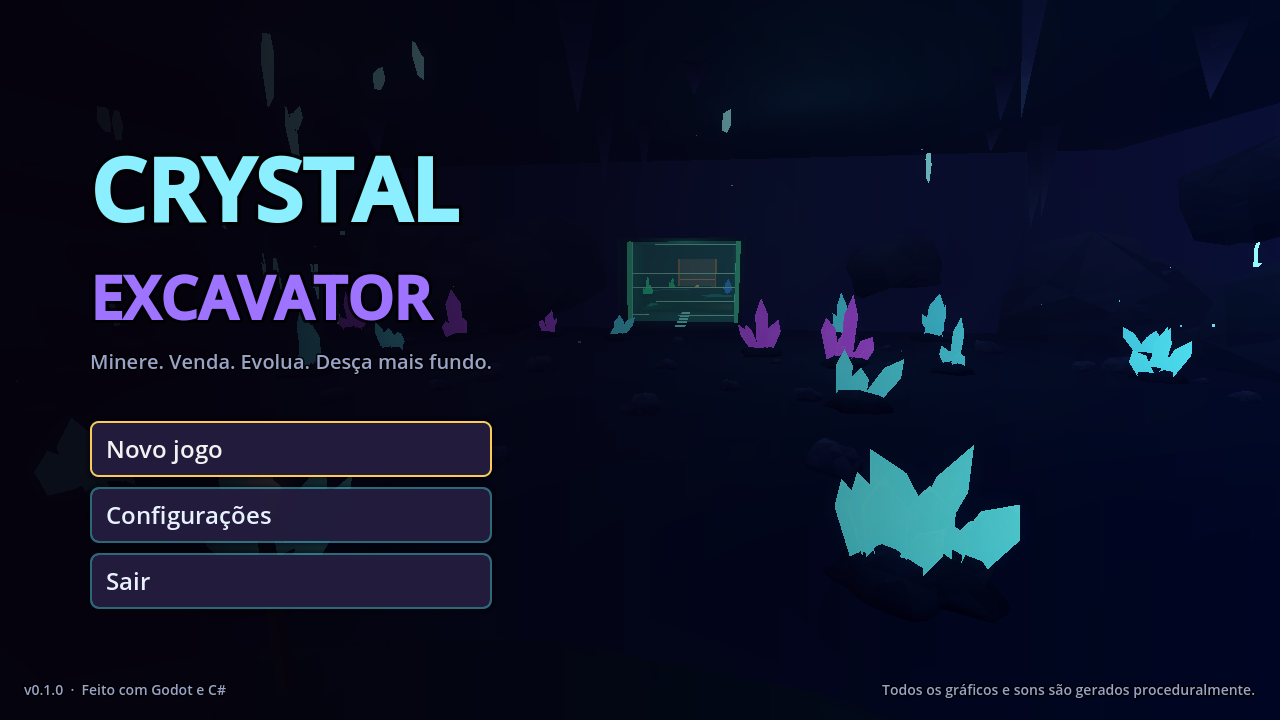
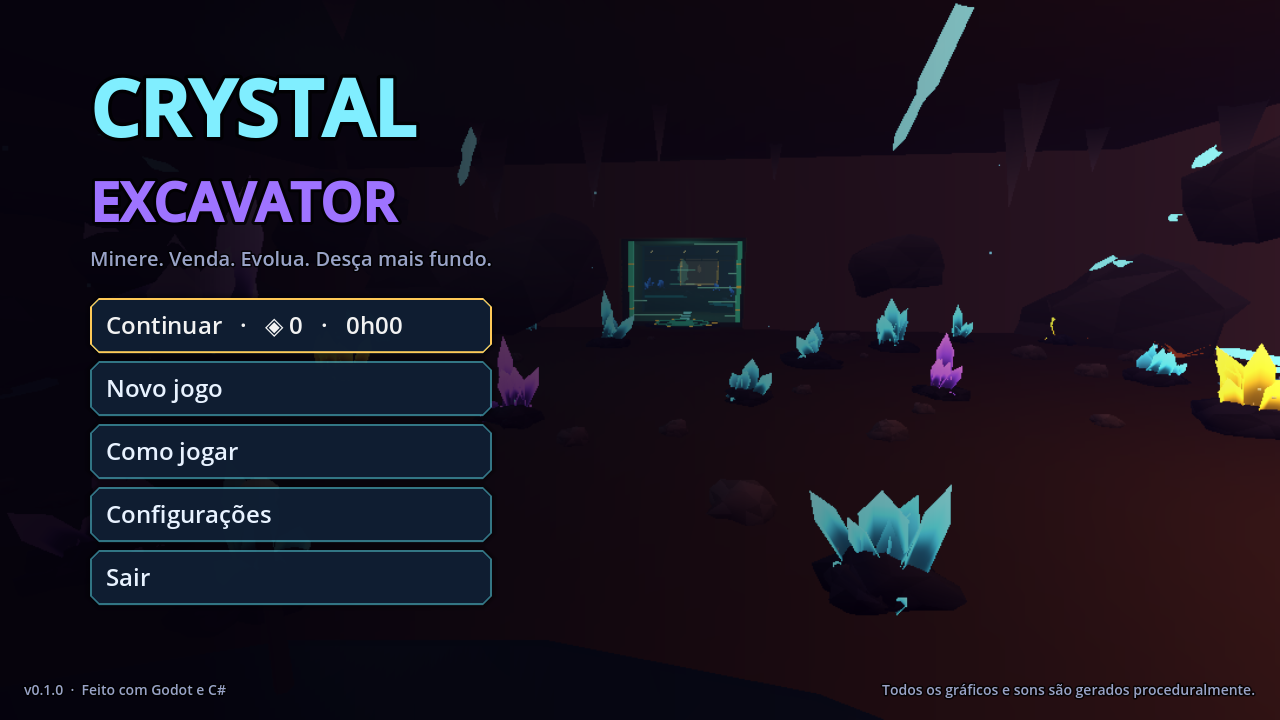
Pré-aquecimento de shaders com tela de carregamento; menu principal cabe a 720p com 5 botões
Claude-Session: https://claude.ai/code/session_01VNDxi8LJdZjd7RsBuVevc4

diff --git a/scripts/Core/Main.cs b/scripts/Core/Main.cs
@@ -116,7 +116,30 @@ public partial class Main : Node
         GameState.Instance.RegionsChanged += () => GameState.Instance.CheckCompletion();
         GameState.Instance.MaterialDiscovered += _ => GameState.Instance.CheckCompletion();
 
+        Boot(args);
+    }
+
+    /// <summary>
+    /// Inicialização: tela "Carregando…" enquanto todas as regiões são desenhadas por alguns quadros
+    /// (pré-compila shaders na GPU e evita travadas ao entrar em regiões novas), depois o menu.
+    /// </summary>
+    bool _booting = true;
+
+    async void Boot(string[] args)
+    {
+        var loading = BuildLoadingOverlay();
+        foreach (var r in World.RegionRoots) r.Visible = true;
+        _menuCam.Current = true;
+        _menuCam.Far = 420f;
+        _menuCam.GlobalPosition = new Vector3(0, 9f, 34f);
+        _menuCam.LookAt(new Vector3(0, 2f, -150f), Vector3.Up);
+        Effects.Instance?.Burst(new Vector3(0, 2, 10), Colors.White, 1f); // compila partículas
+        for (int i = 0; i < 5; i++) await ToSignal(GetTree(), SceneTree.SignalName.ProcessFrame);
+        _menuCam.Far = 120f;
+        loading.QueueFree();
+        _booting = false;
         ShowMenu();
+
 
         if (args.Contains("--autostart")) StartGame(false);
         var shots = args.FirstOrDefault(a => a.StartsWith("--shots="));
@@ -128,6 +151,27 @@ public partial class Main : Node
             if (bot.Contains('=') && float.TryParse(bot.Split('=')[1], System.Globalization.CultureInfo.InvariantCulture, out float mins)) b.MaxGameMinutes = mins;
             AddChild(b);
         }
+    }
+
+    CanvasLayer BuildLoadingOverlay()
+    {
+        var layer = new CanvasLayer { Layer = 50 };
+        AddChild(layer);
+        var bg = new ColorRect { Color = new Color(0.02f, 0.03f, 0.06f, 1f) };
+        bg.SetAnchorsPreset(Control.LayoutPreset.FullRect);
+        layer.AddChild(bg);
+        var center = new CenterContainer();
+        center.SetAnchorsPreset(Control.LayoutPreset.FullRect);
+        layer.AddChild(center);
+        var v = new VBoxContainer();
+        v.AddThemeConstantOverride("separation", 12);
+        center.AddChild(v);
+        var icon = HudIcon.Make(HudIcon.Kind.Gem, UiTheme.Cyan, 64);
+        icon.SizeFlagsHorizontal = Control.SizeFlags.ShrinkCenter;
+        v.AddChild(icon);
+        v.AddChild(UiTheme.Label("CRYSTAL EXCAVATOR", 34, UiTheme.Cyan, true, HorizontalAlignment.Center));
+        v.AddChild(UiTheme.Label("Carregando cavernas…", 18, UiTheme.Muted, false, HorizontalAlignment.Center));
+        return layer;
     }
 
     public override void _ExitTree()
@@ -329,6 +373,7 @@ public partial class Main : Node
     public override void _Process(double delta)
     {
         if (World == null) return;
+        if (_booting) return;
         if (CurrentMode == Mode.Menu)
         {
             _menuT += (float)delta * 0.08f;

diff --git a/scripts/UI/MainMenu.cs b/scripts/UI/MainMenu.cs
@@ -32,19 +32,19 @@ public partial class MainMenu : CanvasLayer
         _root.AddChild(shade);
 
         var left = new VBoxContainer();
-        UiTheme.Place(left, Control.LayoutPreset.CenterLeft, new Vector2(90, -230));
-        left.AddThemeConstantOverride("separation", 10);
+        UiTheme.Place(left, Control.LayoutPreset.CenterLeft, new Vector2(90, -305));
+        left.AddThemeConstantOverride("separation", 6);
         _root.AddChild(left);
 
-        _title = UiTheme.Shadowed(UiTheme.Label("CRYSTAL", 86, UiTheme.Cyan, true), 14);
+        _title = UiTheme.Shadowed(UiTheme.Label("CRYSTAL", 76, UiTheme.Cyan, true), 14);
         left.AddChild(_title);
-        var t2 = UiTheme.Shadowed(UiTheme.Label("EXCAVATOR", 58, UiTheme.Violet, true), 12);
+        var t2 = UiTheme.Shadowed(UiTheme.Label("EXCAVATOR", 52, UiTheme.Violet, true), 12);
         left.AddChild(t2);
         left.AddChild(UiTheme.Shadowed(UiTheme.Label("Minere. Venda. Evolua. Desça mais fundo.", 20, UiTheme.Muted), 6));
-        left.AddChild(UiTheme.Spacer(26));
+        left.AddChild(UiTheme.Spacer(14));
 
         _buttons = new VBoxContainer();
-        _buttons.AddThemeConstantOverride("separation", 10);
+        _buttons.AddThemeConstantOverride("separation", 8);
         left.AddChild(_buttons);
         _continue = Make("Continuar", () => OnContinue?.Invoke());
         Make("Novo jogo", () => OnNewGame?.Invoke());
@@ -63,7 +63,7 @@ public partial class MainMenu : CanvasLayer
     Button Make(string text, Action a)
     {
         var b = UiTheme.Button(text, a, 320, 24);
-        b.CustomMinimumSize = new Vector2(320, 56);
+        b.CustomMinimumSize = new Vector2(340, 50);
         b.Alignment = HorizontalAlignment.Left;
         _buttons.AddChild(b);
         return b;

diff --git a/scripts/World/WorldBuilder.cs b/scripts/World/WorldBuilder.cs
@@ -29,6 +29,7 @@ public partial class WorldBuilder : Node3D
 
     void Build()
     {
+        ulong t0 = Time.GetTicksMsec();
         var regions = GameData.Regions;
         for (int i = 0; i < regions.Count; i++)
         {
@@ -49,6 +50,7 @@ public partial class WorldBuilder : Node3D
         foreach (Node c in GetChildren())
             if (c.GetType() == typeof(Node3D)) saved += StaticBatcher.Batch((Node3D)c);
         GD.Print($"[World] Agrupamento estático: {saved} instâncias de malha a menos");
+        GD.Print($"[World] Mundo construído em {Time.GetTicksMsec() - t0} ms ({Crystals.Count} cristais)");
     }
 
     // =================== Salas ===================

diff --git a/DEVELOPMENT_LOG.md b/DEVELOPMENT_LOG.md
@@ -146,3 +146,6 @@ Polimento visual (ferramenta, números de dano, iluminação da região 3), revi
 - Prioridades para o tempo restante: balanceamento fino, polimento, regressão, validação no Windows real (pendente com o diretor), documentação final e candidato 1.0.
 - **Conclusão da jornada:** com as 4 regiões liberadas e o Coração Ancestral destruído, aparece uma única vez a tela **Mestre Escavador** com estatísticas (tempo, cristais, fragmentos, ganhos, materiais e melhorias no máximo). Persistida no save (`GameCompleted`). O jogo continua depois. O bot exige a tela de conclusão para passar (concluiu aos 45 min de jogo). Testes: 166/166.
 - **Ícone do jogo** (cristal facetado na paleta do jogo): `icon_512.png` (janela) e `icon.ico` (6 tamanhos) embutido no `.exe` pelo próprio Godot (`modify_resources=true`, sem rcedit). Verificado: as 6 imagens estão presentes no executável.
+- **Tempo de carga medido:** mundo construído em ~235 ms (92 cristais; 369 malhas mescladas).
+- **Pré-aquecimento de shaders:** tela "Carregando cavernas…" por 5 quadros enquanto a câmera enxerga as 4 regiões, para o driver compilar os shaders antes do jogo (evita travadas na 1ª entrada em cada região no renderizador Compatibility).
+- **Correção:** com save existente, o menu tinha 5 botões e o "Sair" era cortado na base da tela a 720p; layout compactado.
